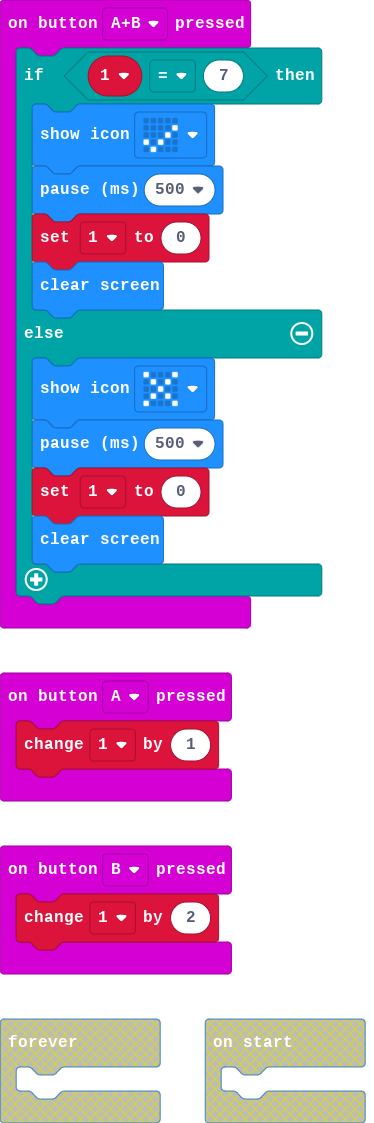
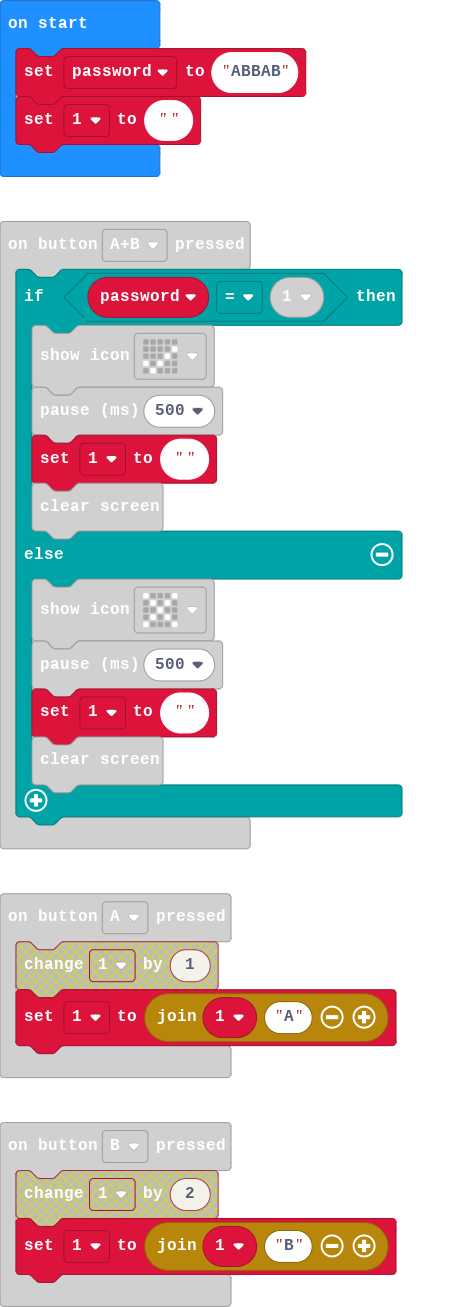
Update pxt.json, main.blocks, main.ts, main.py

diff --git a/main.ts b/main.ts
@@ -1,20 +1,23 @@
-let _1 = 0
 input.onButtonPressed(Button.A, function () {
-    _1 += 1
+    _1 = "" + _1 + "A"
 })
 input.onButtonPressed(Button.AB, function () {
-    if (_1 == 7) {
+    if (password == _1) {
         basic.showIcon(IconNames.Yes)
         basic.pause(500)
-        _1 = 0
+        _1 = ""
         basic.clearScreen()
     } else {
         basic.showIcon(IconNames.No)
         basic.pause(500)
-        _1 = 0
+        _1 = ""
         basic.clearScreen()
     }
 })
 input.onButtonPressed(Button.B, function () {
-    _1 += 2
+    _1 = "" + _1 + "B"
 })
+let password = ""
+let _1 = ""
+password = "ABBAB"
+_1 = ""

diff --git a/main.py b/main.py
@@ -1,0 +1,25 @@
+_1 = 0
+
+def on_button_pressed_a():
+    global _1
+    _1 += 1
+input.on_button_pressed(Button.A, on_button_pressed_a)
+
+def on_button_pressed_ab():
+    global _1
+    if _1 == 7:
+        basic.show_icon(IconNames.YES)
+        basic.pause(500)
+        _1 = 0
+        basic.clear_screen()
+    else:
+        basic.show_icon(IconNames.NO)
+        basic.pause(500)
+        _1 = 0
+        basic.clear_screen()
+input.on_button_pressed(Button.AB, on_button_pressed_ab)
+
+def on_button_pressed_b():
+    global _1
+    _1 += 2
+input.on_button_pressed(Button.B, on_button_pressed_b)
